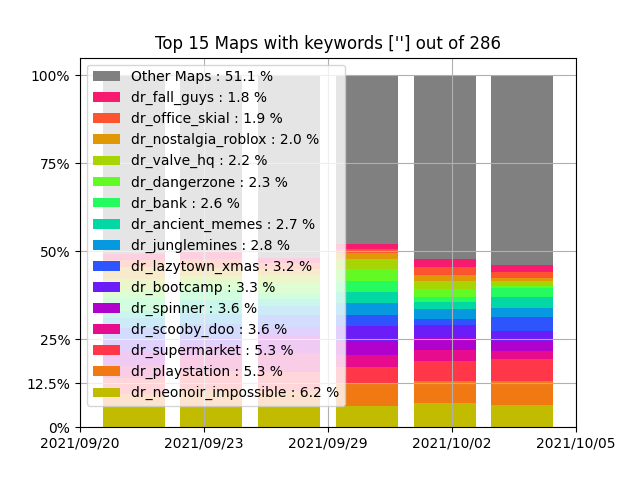
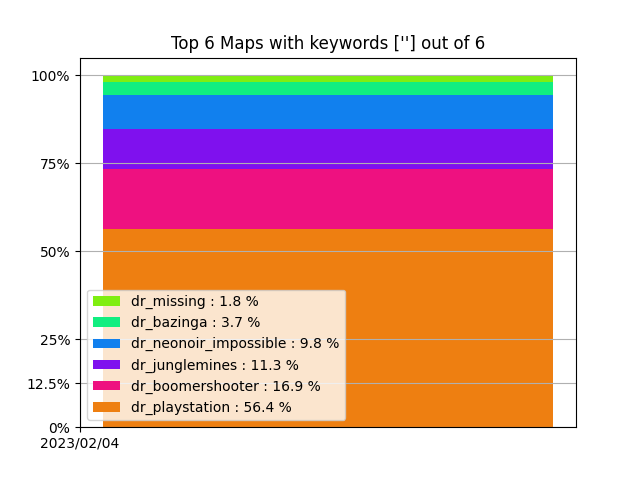
README Update and better defaults

diff --git a/read.py b/read.py
@@ -1,12 +1,10 @@
 import matplotlib.pyplot as plt
-import matplotlib.pyplot as plot
 from math import pi
 import numpy as np
 import csv
 import re
 from statistics import mean 
 from datetime import datetime, timedelta
-import copy
 import os
 from R6LIB import dictmerger,dictmax,dictlimx,arrayrectifier,weakfiller
 from write import Format
@@ -14,16 +12,16 @@ from write import Format
 #Parameters
 filename = "output.csv" #file to read
 filenamepng = "output.png" #name of the figure
-MapsToShow = 15 #How many maps to show in order of popularity
-AverageDays = 3 #how many days each bar represents
+MapsToShow = 90 #How many maps to show in order of popularity
+AverageDays = 1 #how many days each bar represents
 StartDate = "2001-10-02" #date range to use
-EndDate = "2022-10-02"  #date range to use
+EndDate = "2040-10-02"  #date range to use
 XaxisDates = 5 #How many dates to show in the figure. Maximum is the amount of bars. Minimum is 2
-OnlyMapsContaining = [""] #EX.["Playstation","Bazinga","Lazy"]
+OnlyMapsContaining = [""] #EX.["Playstation","Bazinga","Lazy"] or gamemodes like ["ze_"]
 ColorForOtherMaps = (0.5,0.5,0.5)
 ColorIntensity = 25
 wordfilter = ["fix","final","redux","finished","remake","optimized","finalplus","mini","vsh"] #Will not consider maps with these suffixes to be unique
-versionfilter = ["v","b","a","rc","x","f"]
+versionfilter = ["v","b","a","rc","x","f"] #Will not consider maps with these version suffixes to be unique
 
 
 
@@ -219,15 +217,15 @@ def plotter():
     force = True
     if(type(previousmap) is not type(None) and len(TopMaps) != mapcount):
         plotdraw(X,np.ones((len(previousmap)), dtype=int)-previousmap,"Other Maps")
-        plot.title(f"Top {len(TopMaps)} Maps with keywords {OnlyMapsContaining} out of {mapcount}")
+        plt.title(f"Top {len(TopMaps)} Maps with keywords {OnlyMapsContaining} out of {mapcount}")
         plt.legend(list(reversed(Handles)),list(reversed(Labels)))
         plt.grid(True)
 
     elif(mapcount == 0):
-        plot.title(f"None maps found using keywords {OnlyMapsContaining}")
+        plt.title(f"None maps found using keywords {OnlyMapsContaining}")
 
     else:
-        plot.title(f"Top {len(TopMaps)} Maps with keywords {OnlyMapsContaining} out of {mapcount}")
+        plt.title(f"Top {len(TopMaps)} Maps with keywords {OnlyMapsContaining} out of {mapcount}")
         plt.legend(list(reversed(Handles)),list(reversed(Labels)))
         plt.grid(True)
 

diff --git a/README.md b/README.md
@@ -15,6 +15,7 @@ A way to gather and display map relevancy for a given Source game and Gamemode.
 * This will show you relevant information about the data you've just collected and generate a .png 
 
 ## Installation
+* Download and Install Python 3.10 or newer
 * Download the repository with these comands
         
 ```git clone https://github.com/R60D/SourceMapStats```
@@ -33,3 +34,8 @@ A way to gather and display map relevancy for a given Source game and Gamemode.
 
 * Make sure that python and pip is installed on your computer. Otherwise the install.bat wont work
 * Additionally make sure that your pip works by doing pip in cmd
+
+* None Maps found?
+* Change the Start and End date in the reader.py to reflect your desired timespan.
+* Make sure that MapsToShow is not 0
+* Check that OnlyMapsContaining does not have an filter use ```[""]```
